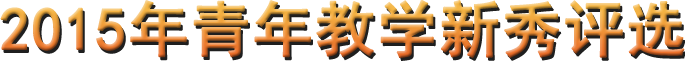
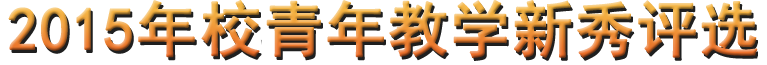
固定投票数。标题增加“校”字。

diff --git a/client/vote/for_hdu.html b/client/vote/for_hdu.html
@@ -167,7 +167,7 @@
 
         <a href="" style="margin-top: 15px;font-size: 15px" type="button"
            class="btn btn-danger btn-lg btn-block visible-xs visible-sm" ng-click="refresh()"
-           ng-show="vote.title === '2015年校卓越教学名师评选'">点击进入青年教学新秀评选</a>
+           ng-show="vote.title === '2015年校卓越教学名师评选'">点击进入校青年教学新秀评选</a>
 
         <div class="col-md-5 col-md-offset-1 hidden-xs hidden-sm">
           <img class="boxShadow" src="/img/word_bg.png" style="width:200px;margin-top:10px">
@@ -178,7 +178,7 @@
              ng-show="vote.title === '2015年青年教学新秀评选'">点击进入校卓越教学名师评选</a>
           <a href="/vote/for_hdu.html#?id=563211dbd74e34af2bc8efe9" style="margin-top: 15px;font-size: 15px"
              type="button" class="btn btn-danger btn-lg btn-block hidden-xs hidden-sm" ng-click="refresh()"
-             ng-show="vote.title === '2015年校卓越教学名师评选'">点击进入青年教学新秀评选</a>
+             ng-show="vote.title === '2015年校卓越教学名师评选'">点击进入校青年教学新秀评选</a>
 
         </div>
         <div class="visible-xs visible-sm text-center">
@@ -187,7 +187,7 @@
         <div class="clearfix"></div>
         <div>
           <hr>
-          <p>最大投票数：{{vote.maxVote}}</p>
+          <p>每人投票数：{{vote.maxVote}}</p>
 
           <p>开始时间：{{startTime | date:cnFormat}}</p>
 
@@ -250,7 +250,7 @@
       <div class="clearfix"></div>
       <hr>
       <div class="submitBtn col-md-6 col-md-offset-3">
-        <p>已选择：<b>{{choosed}}</b>个。 最多能选择：<b>{{vote.maxVote}}</b>个</p>
+        <p>已选择：<b>{{choosed}}</b>个。 应选择：<b>{{vote.maxVote}}</b>个</p>
         <input ng-change="isChosenType()" ng-click="isChosenType()" class="form-control text-center boxShadow"
                type="text" ng-model="verifyResult"
                placeholder="请输入您的{{verifyRule}}" ng-disabled="cRule === 'studentId'" ng-disabled="!cRule" required>

diff --git a/client/js/vote/vote_for_hdu.js b/client/js/vote/vote_for_hdu.js
@@ -1,5 +1,6 @@
 function VoteCtrl($scope, $location, $modal, $http, $sce) {
   $scope.title = '投票';
+  var maxVote;
   var url = window.location.href;
   window.sessionStorage.next = url;
   $scope.cnFormat = "yy'/'MM'/'dd' 'HH':'mm'";
@@ -18,6 +19,7 @@ function VoteCtrl($scope, $location, $modal, $http, $sce) {
     }
     res.description = $sce.trustAsHtml(res.description);
     $scope.vote = res;
+    maxVote = res.maxVote;
     $scope.title = res.title || '投票';
     $scope.startTime = new Date($scope.vote.startTime);
     $scope.stopTime = new Date($scope.vote.stopTime);
@@ -169,7 +171,7 @@ function VoteCtrl($scope, $location, $modal, $http, $sce) {
         }
       }
       var d2VjaGF0 = JSON.parse(window.sessionStorage.d2VjaGF0);
-      if (resultTmp.length != 0) {
+      if (resultTmp.length === maxVote) {
         $http.post('/api/WeChatUsers/'+ d2VjaGF0.userId +"/voteResults?access_token=" + d2VjaGF0.accessToken,{
             'voteId': id,
             'results': resultTmp,
@@ -185,7 +187,7 @@ function VoteCtrl($scope, $location, $modal, $http, $sce) {
           }
         );
       } else {
-        alert("请至少选择一项");
+        alert("请选择" + maxVote + "项再提交");
       }
     }
   };
